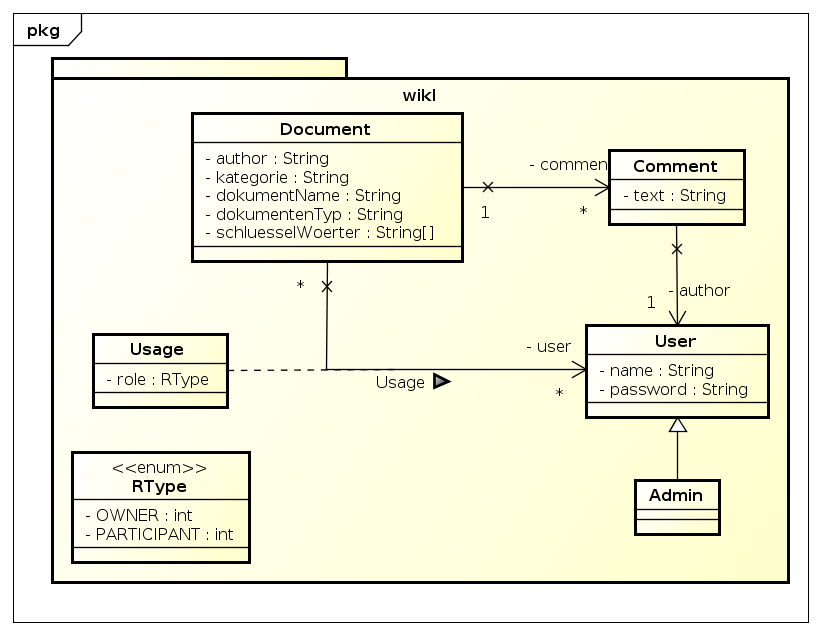
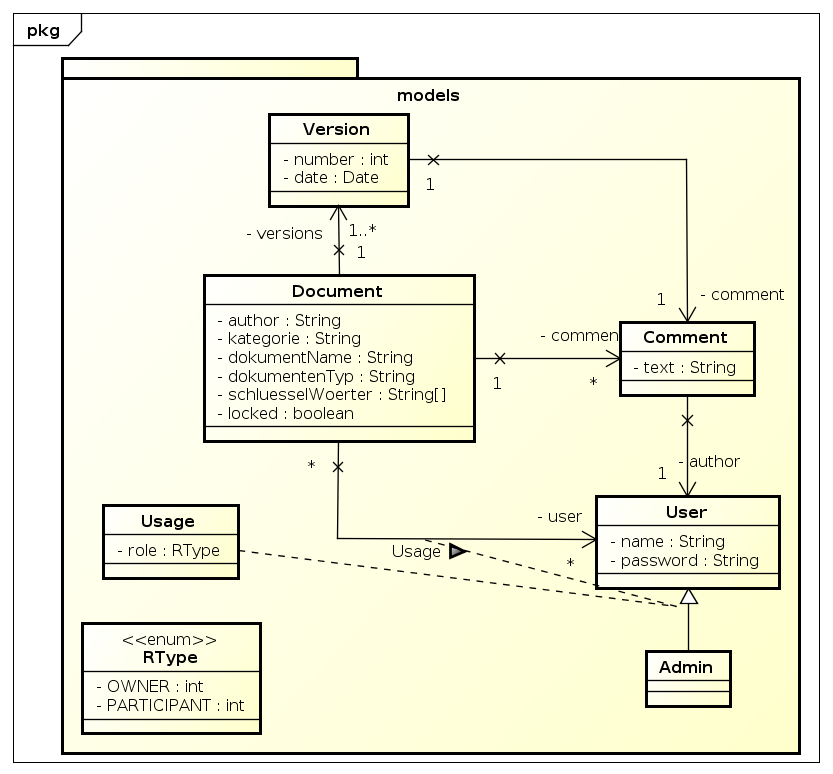
domainmodl v2

Changed region(s): [[0.0, 0.0, 1.0, 0.9858]]

diff --git a/app/models/Document.java b/app/models/Document.java
@@ -1,0 +1,27 @@
+package models;
+
+public class Document {
+
+	private String author;
+
+	private String kategorie;
+
+	private String dokumentName;
+
+	private String dokumentenTyp;
+
+	private String schluesselWoerter;
+
+	private boolean locked;
+
+	private Comment[] comment;
+
+	private User owner;
+
+	private User[] users;
+
+	private Usage[] usage;
+
+	private Version[] versions;
+
+}

diff --git a/app/models/Version.java b/app/models/Version.java
@@ -1,0 +1,15 @@
+package models;
+
+import java.util.Date;
+
+public class Version {
+
+	private int number;
+
+	private Date date;
+
+	private User author;
+
+	private Comment comment;
+
+}

diff --git a/app/models/User.java b/app/models/User.java
@@ -1,0 +1,11 @@
+package models;
+
+public class User {
+
+	private String name;
+
+	private String password;
+
+	private Version version;
+
+}

diff --git a/app/models/RType.java b/app/models/RType.java
@@ -1,0 +1,11 @@
+package models;
+
+public enum RType {
+
+	;
+
+	private int OWNER;
+
+	private int PARTICIPANT;
+
+}

diff --git a/app/models/Comment.java b/app/models/Comment.java
@@ -1,0 +1,9 @@
+package models;
+
+public class Comment {
+
+	private String text;
+
+	private User author;
+
+}

diff --git a/app/models/Usage.java b/app/models/Usage.java
@@ -1,0 +1,9 @@
+package models;
+
+public class Usage {
+
+	private RType role;
+
+	private User user;
+
+}

diff --git a/app/models/Admin.java b/app/models/Admin.java
@@ -1,0 +1,5 @@
+package models;
+
+public class Admin extends User {
+
+}
